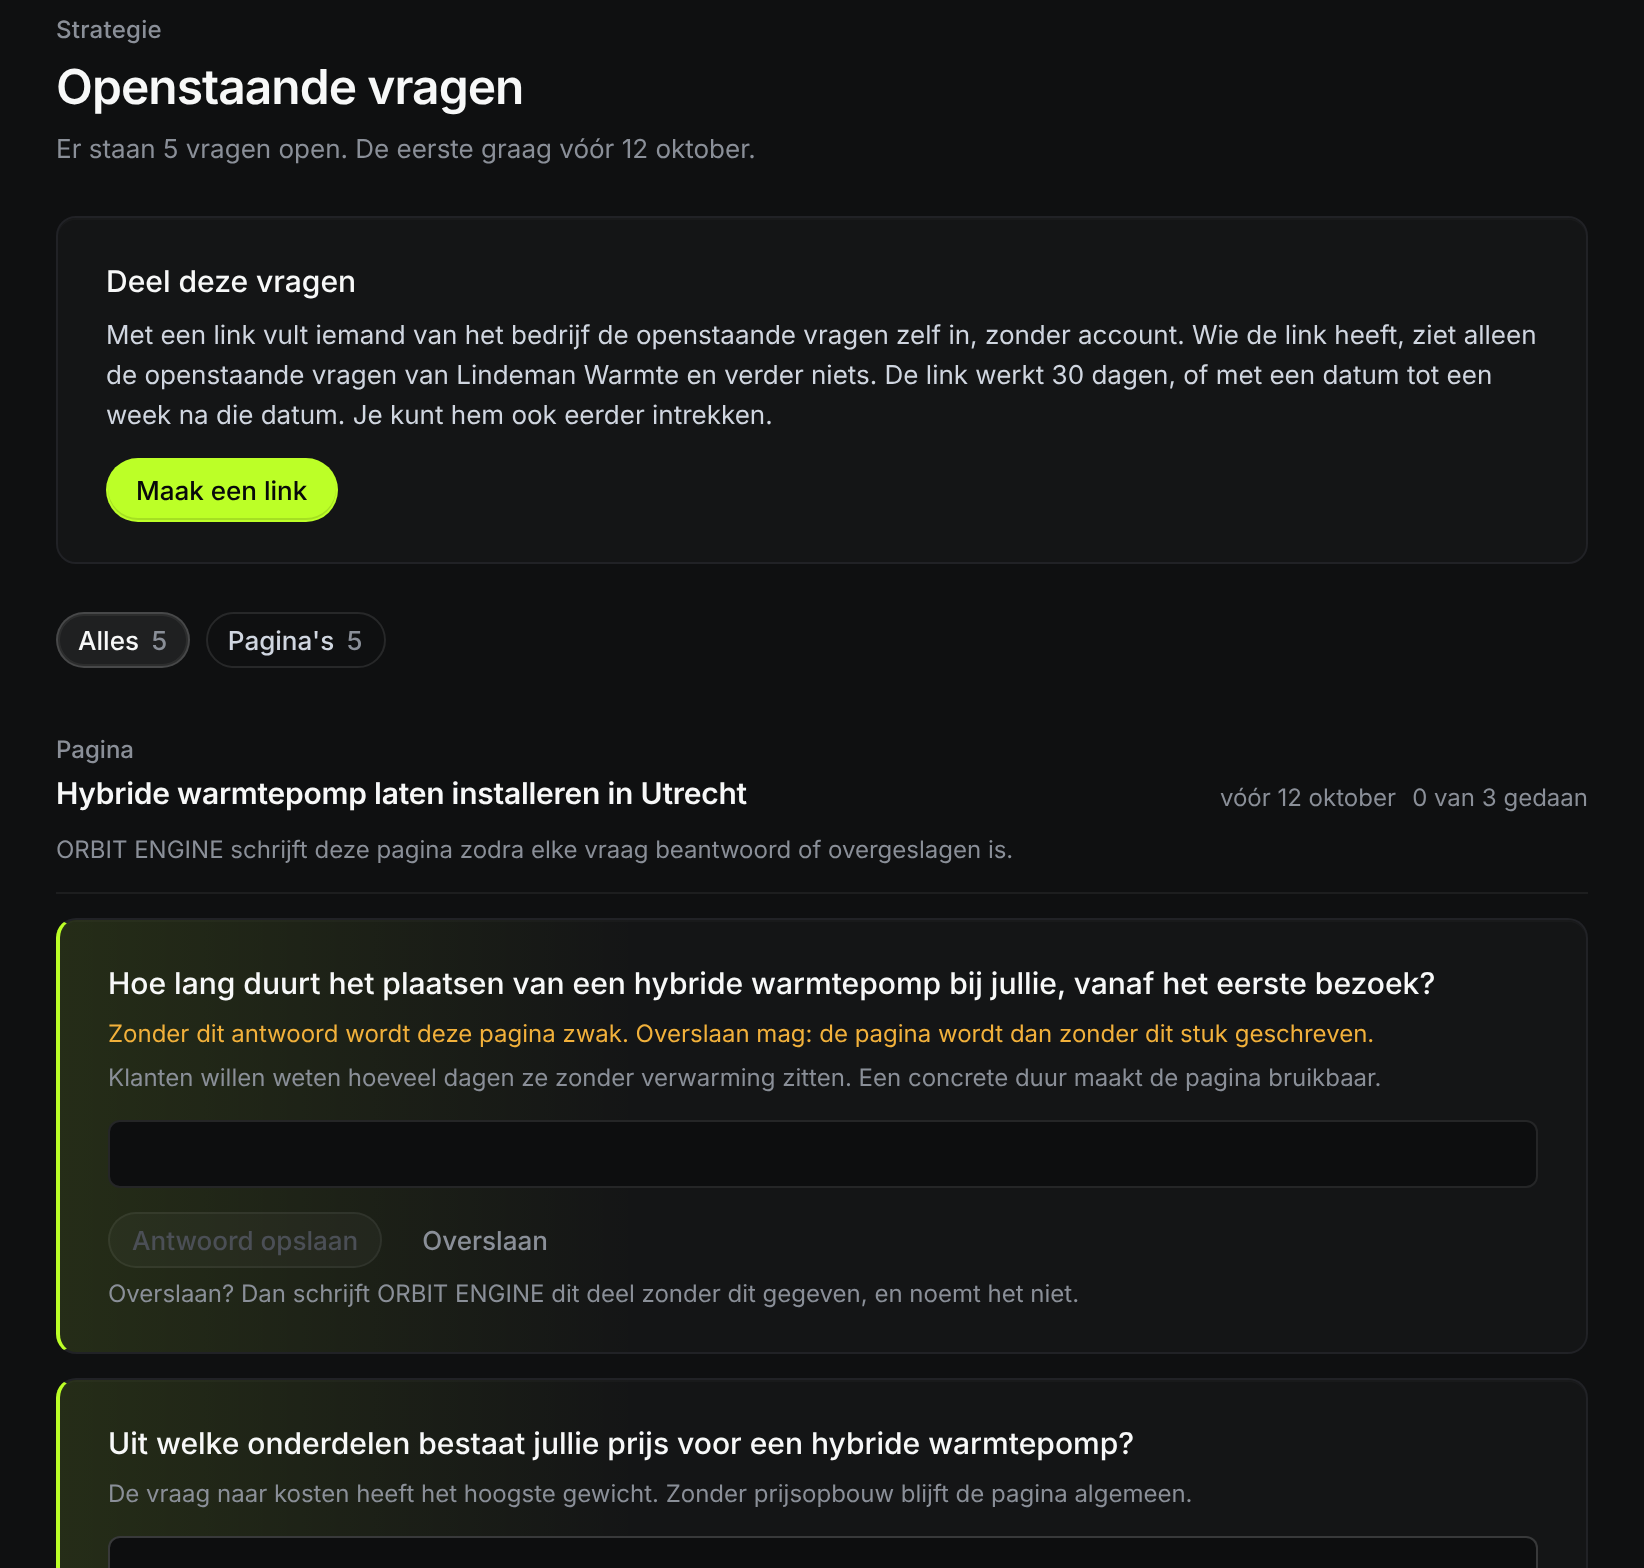
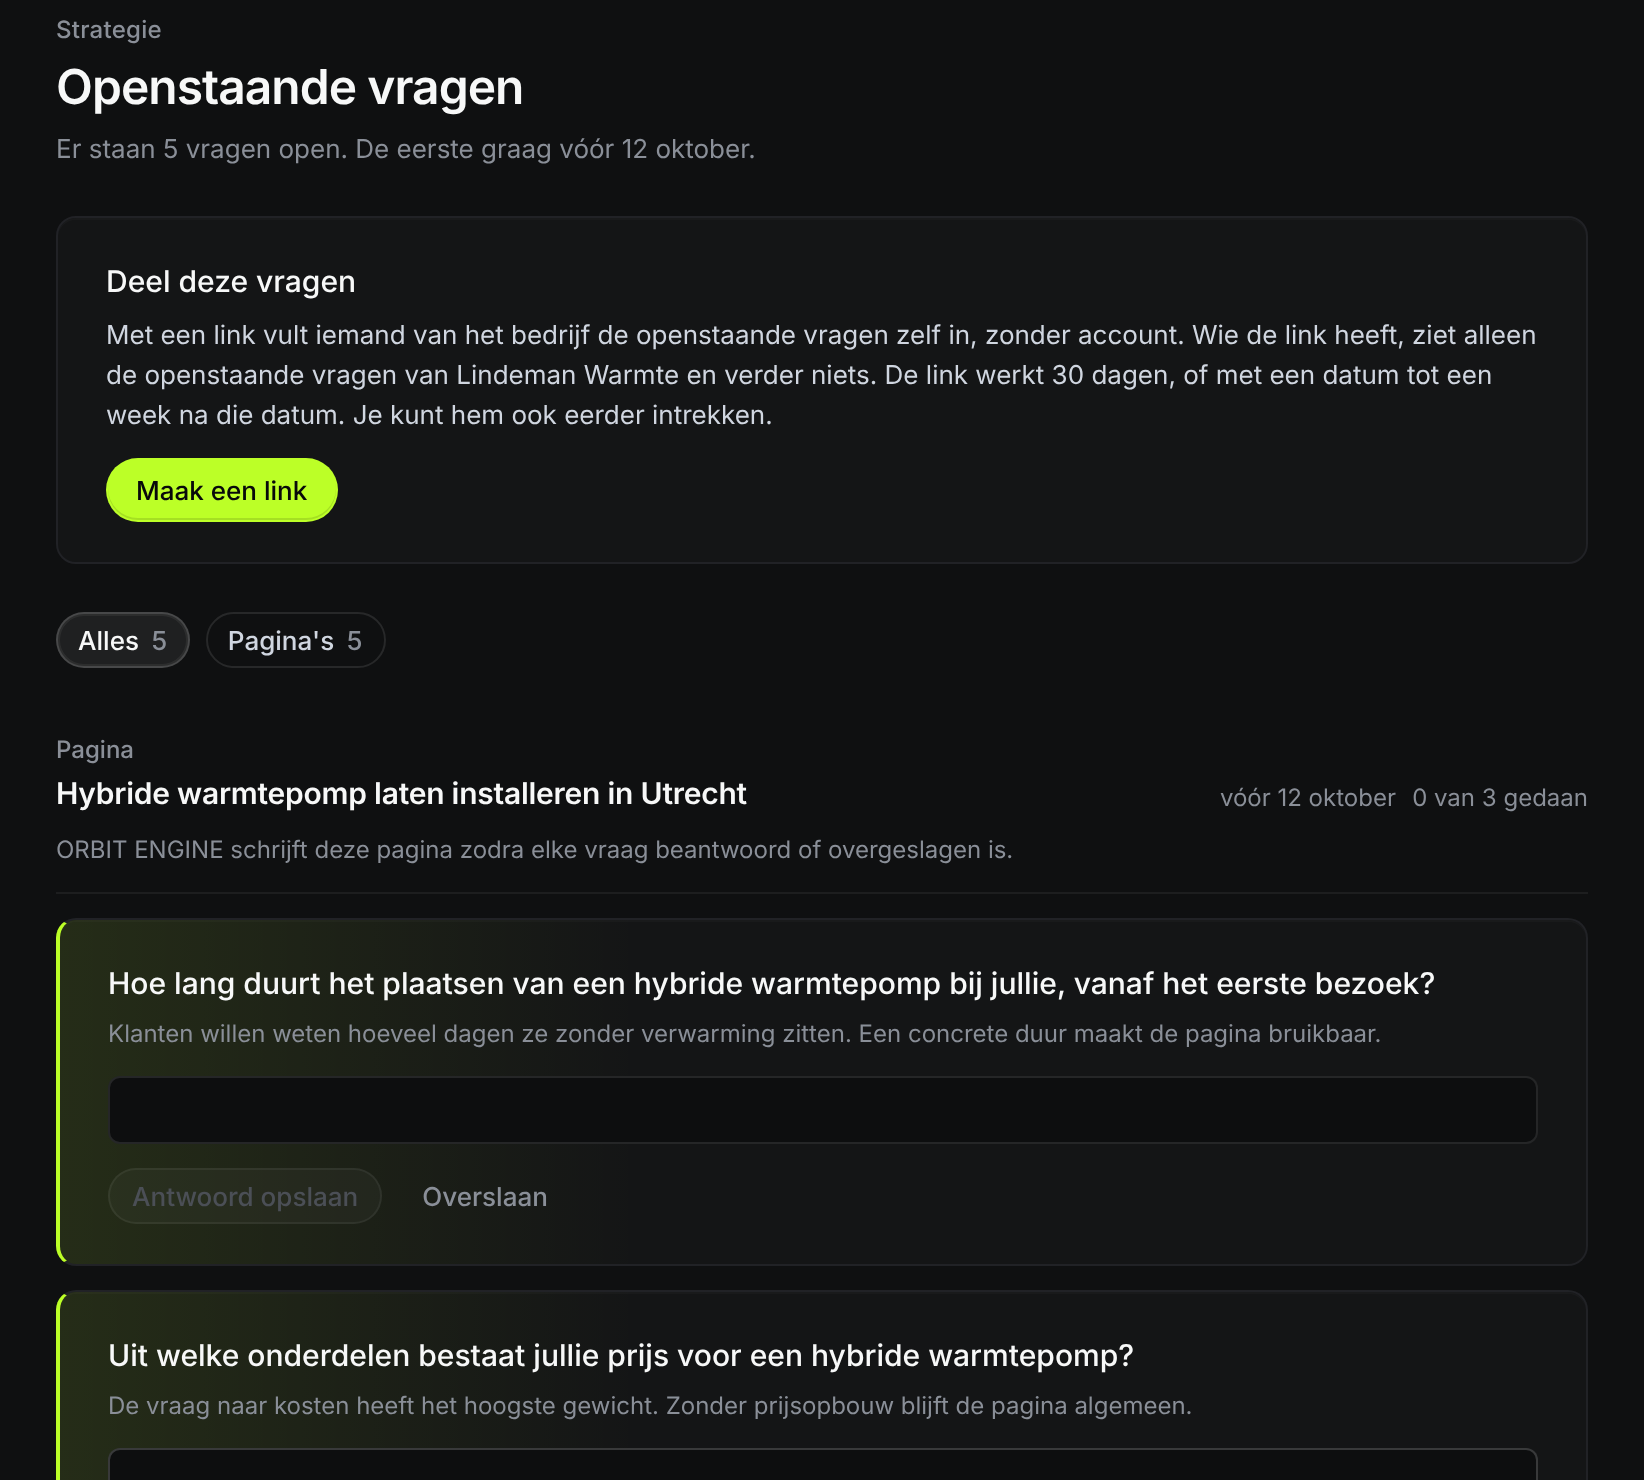
Productbeelden met sterkere voorbeeldcijfers en rustiger schermtekst
Duidelijke groei per cluster met smallere marges, meer gepubliceerde pagina's en meer
zoekverkeer, een hermeting die als stijging telt en kortere wachttijden in het
werkoverzicht. In de opnames vallen voorbehouden en lege tredes weg (conversie, omzet,
'binnen de marge', waarschuwingen bij open vragen), zodat elk beeld het verhaal draagt.

Claude-Session: https://claude.ai/code/session_01Ri5gsrJqgYhHebdj9x19Zq

diff --git a/content/product.ts b/content/product.ts
@@ -71,7 +71,7 @@ export const zichtbaarheidSectie = {
   overzicht: {
     src: zichtbaarheid,
     mobiel: zichtbaarheidMobiel,
-    alt: 'Zichtbaarheid in AI voor Lindeman Warmte: 32 procent over alle clusters met een marge van 11 punten, drie clusters met een eigen lijn, en een tabel per cluster met marge, verandering, gemeten AI-vragen en de kolom Telt mee.',
+    alt: 'Zichtbaarheid in AI voor Lindeman Warmte: 49 procent over alle clusters met een marge van 3 punten, drie clusters met een stijgende lijn, en een tabel per cluster met marge, een stijging van 9 tot 10 punten, gemeten AI-vragen en de kolom Telt mee.',
   } satisfies Shot,
   detail: {
     src: antwoord,
@@ -180,12 +180,12 @@ export const opvolgingSectie = {
   note: 'Per pagina zie je de stand vóór en na publicatie, met de aantallen en de marge erbij.',
   ai: {
     src: hermeting,
-    alt: 'De bewijsladder van de voorbeeldpagina: gepubliceerd, zichtbaar in Google, genoemd door AI bij 4 van de 8 doelvragen tegen 0 vóór publicatie, geciteerd door AI en 63 klikken sinds publicatie.',
+    alt: 'De bewijsladder van de voorbeeldpagina: gepubliceerd, zichtbaar in Google, genoemd door AI bij 5 van de 8 doelvragen tegen 0 vóór publicatie, geciteerd door AI en 262 klikken sinds publicatie.',
     label: 'AI-vermeldingen',
   },
   google: {
     src: zoekverkeer,
-    alt: 'Zoekverkeer van de pagina\'s van ORBIT ENGINE: 240 klikken, 4.613 vertoningen, 5,2 procent doorklikratio en positie 11,2, met een grafiek van de klikken per dag en gestreepte lijnen op de dagen dat een pagina live ging.',
+    alt: 'Zoekverkeer van de pagina\'s van ORBIT ENGINE: 2.944 klikken, 37.304 vertoningen, 7,9 procent doorklikratio en positie 6,4, met een grafiek van de klikken per dag en gestreepte lijnen op de dagen dat een pagina live ging.',
     label: 'Google-zoekverkeer',
   },
 }
@@ -197,7 +197,7 @@ export const verslagSectie = {
     'Bundel de gemeten zichtbaarheid, gepubliceerde pagina\'s en planning in een maandverslag met jullie bureaunaam. Gebruik het in het klantgesprek of bewaar het als pdf om te delen.',
   shot: {
     src: verslag,
-    alt: 'Het verslag van september 2026 van Lindeman Warmte, door Bureau Noordwind: zichtbaarheid in AI-assistenten 26 procent, wat er gemeten is, de pagina\'s die live gingen met hun effect, en de pagina\'s voor volgende maand.',
+    alt: 'Het verslag van september 2026 van Lindeman Warmte, door Bureau Noordwind: zichtbaarheid in AI-assistenten 39 procent, tegen 32 procent de maand ervoor, wat er gemeten is, de pagina\'s die live gingen met hun effect, en de pagina\'s voor volgende maand.',
   } satisfies Shot,
 }
 
